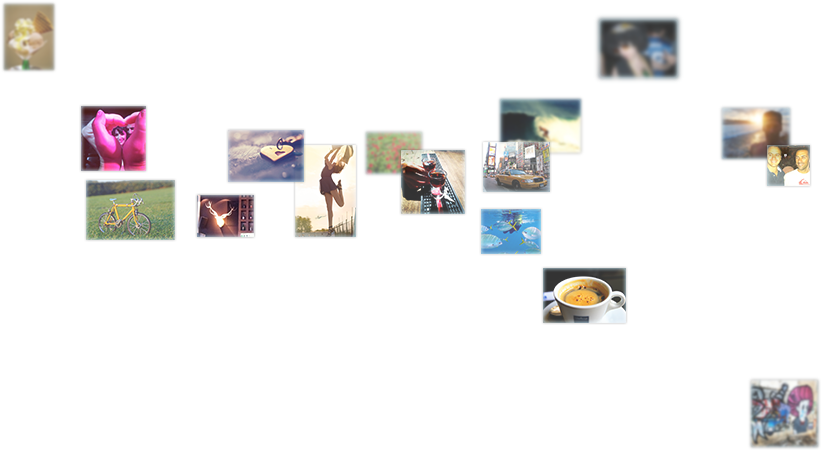
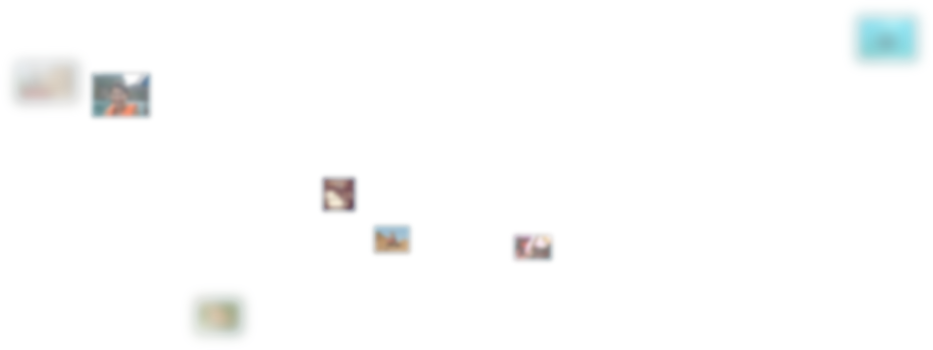
positioning

diff --git a/index.php b/index.php
@@ -42,13 +42,12 @@
 
 	<div id="Wrapper">
 		<div id="port">
-			<img src="images/pics4.png" class="parallax-layer" style="left: 164px; top:68px; width: 628px; height: 325px;" data-xrange="30" data-yrange="10" data-invert="true">
-			<img src="images/pics5.png" class="parallax-layer" style="left: 358px; top:258px; width: 617px; height: 116px;" data-xrange="30" data-yrange="20" data-invert="true">
-			<img src="images/pics7.png" class="parallax-layer" style="left: 244px; top:170px; height: 134px;" data-xrange="30" data-yrange="30" data-invert="true">
-			<img src="images/pics3.png" class="parallax-layer" style="left: 5px; top:198px; width: 947px; height: 233px;" data-xrange="10" data-yrange="10" data-invert="true">
-			<img src="images/pics6.png" class="parallax-layer" style="left: 192px; top:84px; width: 568px; height: 171px;" data-xrange="20" data-yrange="20" data-invert="true">
-			<img src="images/pics8.png" class="parallax-layer" style="left: 240px; top:194px; width: 737px; height: 322px;" data-xrange="20" data-yrange="0" data-invert="true">
-			<img src="images/pics2.png" class="parallax-layer2" style="left: 70px; top:144px; width: 833px; height: 209px;" data-xrange="10" data-yrange="10" data-invert="true">
+			<img src="images/pics1.png" class="parallax-layer" style="left: 11px; top:0px; width: 933px; height: 350px;" data-xrange="50" data-yrange="30" data-invert="true">
+			<img src="images/pics2.png" class="parallax-layer" style="left: 127px; top:14px; width: 821px; height: 450px;" data-xrange="40" data-yrange="30" data-invert="true">
+			<img src="images/pics3.png" class="parallax-layer" style="left: 226px; top:125px; width: 733px; height: 152px;" data-xrange="30" data-yrange="20" data-invert="true">
+			<img src="images/pics4.png" class="parallax-layer" style="left: 228px; top:147px; width: 472px; height: 160px;" data-xrange="20" data-yrange="20" data-invert="true">
+			<img src="images/pics5.png" class="parallax-layer" style="left: 61px; top:98px; width: 833px; height: 209px;" data-xrange="10" data-yrange="10" data-invert="true">
+			<img src="images/pics6.png" class="parallax-layer" style="left: 0px; top:71px; width: 937px; height: 313px;" data-xrange="10" data-yrange="10" data-invert="true">
 		</div>
 		<div id="Main">
 			<div id="Welcome">
@@ -85,12 +84,13 @@
 			</div>
 		</div>
 	</div>
-	
+
 	<script type="text/javascript">
 	  var _gaq = _gaq || [];
-	  _gaq.push(['_setAccount', 'UA-37359138-1']);
+	  _gaq.push(['_setAccount', 'UA-37460221-1']);
+	  _gaq.push(['_setDomainName', 'rel8.to']);
 	  _gaq.push(['_trackPageview']);
-	
+
 	  (function() {
 	    var ga = document.createElement('script'); ga.type = 'text/javascript'; ga.async = true;
 	    ga.src = ('https:' == document.location.protocol ? 'https://ssl' : 'http://www') + '.google-analytics.com/ga.js';
